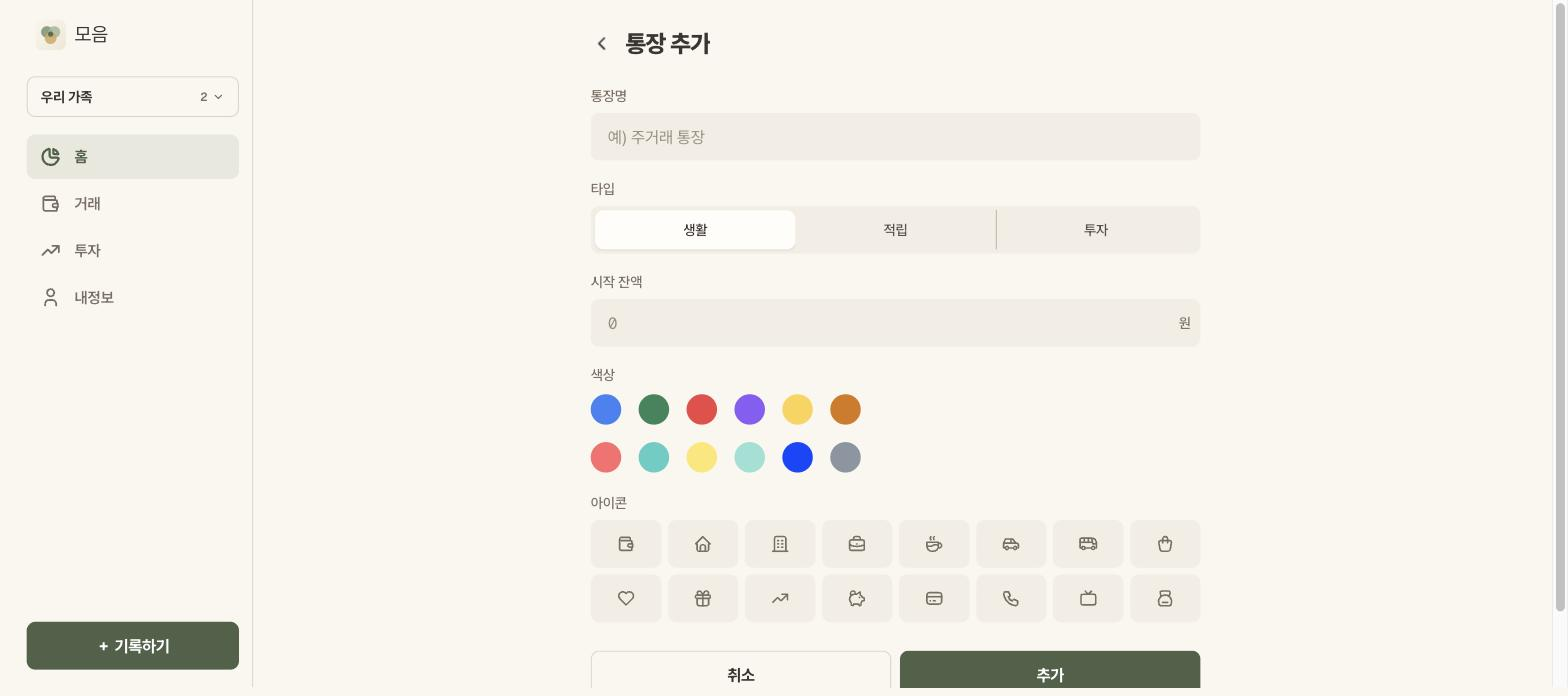
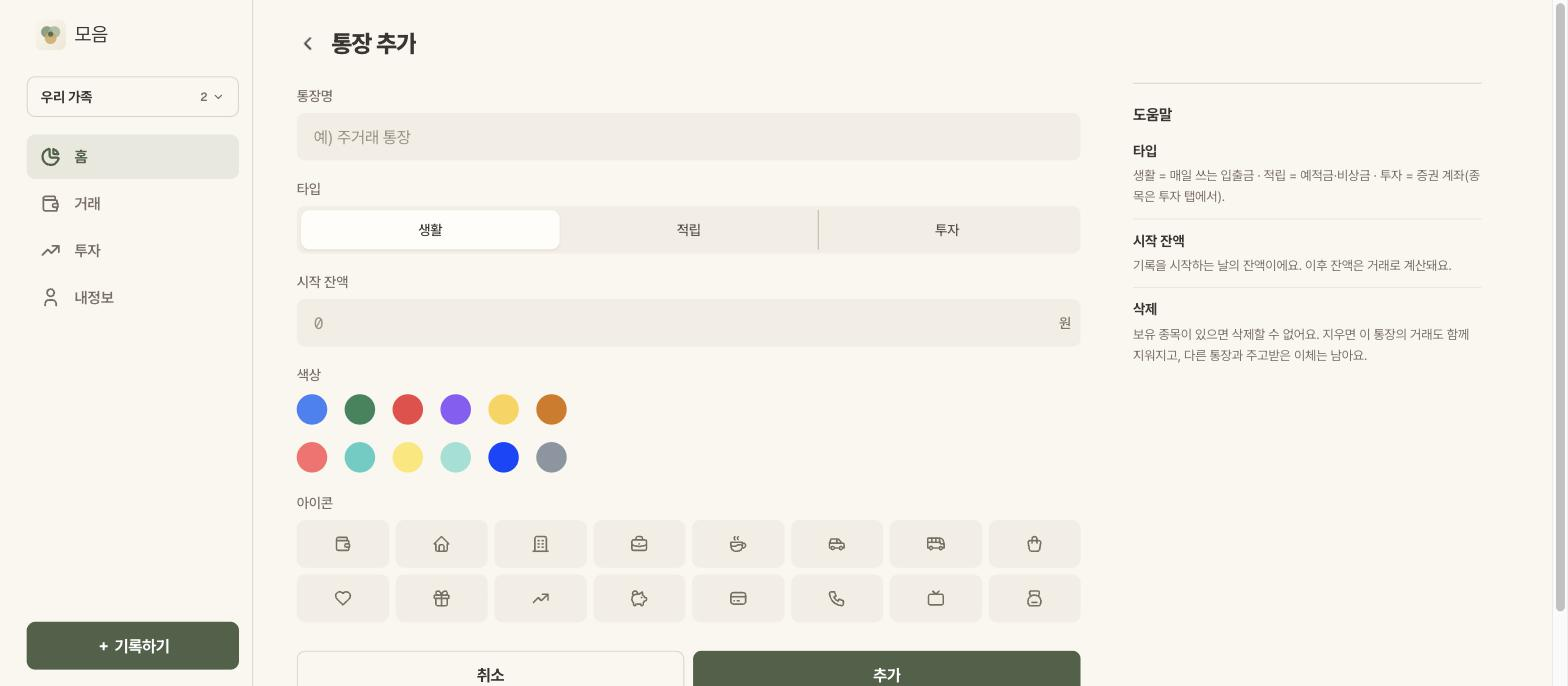
feat: 폼 페이지를 좌 폼·우 도움말 레일 격자로
목록·상세가 전부 좌 720 · 레일 320 인데 폼 페이지만 가운데 560 이라 격자가
깨졌다(사용자 피드백, 배치3 가운데 정렬 대체). 6개 폼 섹션을 moeum-main-rail 로
바꾸고 데스크톱 레일에 FormGuide(용어 뜻 · 계산 방식 · 삭제 조건)를 둔다.
통장·카테고리 문구부터 넣고, 나머지 폼은 해당 배치에서 문구를 채울 때까지 레일을 비운다.
삭제 안내는 백엔드 삭제 가드(delete_account · delete_category) 기준.

diff --git a/src/_sections/category/category-form-section.tsx b/src/_sections/category/category-form-section.tsx
@@ -1,9 +1,10 @@
 "use client";
 
-import { Stack } from "@mantine/core";
+import { Box, Stack } from "@mantine/core";
 import { useTranslations } from "next-intl";
 
 import CategoryForm from "_features/category/components/form";
+import FormGuide from "_features/common/components/form-guide";
 import SubHeader from "_features/layout/components/sub-header";
 
 interface CategoryFormSectionProps {
@@ -17,12 +18,23 @@ export default function CategoryFormSection({
   const isUpdate = Boolean(categoryId);
 
   return (
-    // 페이지 모드(fallback 라우트) — Card 없이 모달과 같은 폭 560, 본문 가운데 (DESIGN §5 폼 필드)
-    <Stack gap="md" maw={560} w="100%" mx="auto">
-      <SubHeader
-        title={isUpdate ? t("form_update_title") : t("form_create_title")}
-      />
-      <CategoryForm categoryId={categoryId} />
-    </Stack>
+    // 페이지 모드(fallback 라우트) — 앱 격자 그대로: 좌 폼 칼럼 · 우 레일 도움말 (배치4, DESIGN §5 폼 필드)
+    <div className="moeum-main-rail">
+      <Stack gap="md">
+        <SubHeader
+          title={isUpdate ? t("form_update_title") : t("form_create_title")}
+        />
+        <CategoryForm categoryId={categoryId} />
+      </Stack>
+      <Box visibleFrom="lg" pt={48}>
+        <FormGuide
+          items={[
+            { title: t("kind"), body: t("guide.kind_body") },
+            { title: t("sort_order"), body: t("guide.sort_body") },
+            { title: t("guide.delete_title"), body: t("guide.delete_body") },
+          ]}
+        />
+      </Box>
+    </div>
   );
 }

diff --git a/src/_sections/account/account-form-section.tsx b/src/_sections/account/account-form-section.tsx
@@ -1,9 +1,10 @@
 "use client";
 
-import { Stack } from "@mantine/core";
+import { Box, Stack } from "@mantine/core";
 import { useTranslations } from "next-intl";
 
 import AccountForm from "_features/account/components/form";
+import FormGuide from "_features/common/components/form-guide";
 import SubHeader from "_features/layout/components/sub-header";
 
 interface AccountFormSectionProps {
@@ -17,12 +18,23 @@ export default function AccountFormSection({
   const isUpdate = Boolean(accountId);
 
   return (
-    // 페이지 모드(fallback 라우트) — Card 없이 모달과 같은 폭 560, 본문 가운데 (DESIGN §5 폼 필드)
-    <Stack gap="md" maw={560} w="100%" mx="auto">
-      <SubHeader
-        title={isUpdate ? t("form_update_title") : t("form_create_title")}
-      />
-      <AccountForm accountId={accountId} />
-    </Stack>
+    // 페이지 모드(fallback 라우트) — 앱 격자 그대로: 좌 폼 칼럼 · 우 레일 도움말 (배치4, DESIGN §5 폼 필드)
+    <div className="moeum-main-rail">
+      <Stack gap="md">
+        <SubHeader
+          title={isUpdate ? t("form_update_title") : t("form_create_title")}
+        />
+        <AccountForm accountId={accountId} />
+      </Stack>
+      <Box visibleFrom="lg" pt={48}>
+        <FormGuide
+          items={[
+            { title: t("type"), body: t("guide.type_body") },
+            { title: t("balance"), body: t("guide.start_balance_body") },
+            { title: t("guide.delete_title"), body: t("guide.delete_body") },
+          ]}
+        />
+      </Box>
+    </div>
   );
 }

diff --git a/src/_features/common/components/form-guide.tsx b/src/_features/common/components/form-guide.tsx
@@ -1,0 +1,42 @@
+"use client";
+
+import { Box, Text } from "@mantine/core";
+import { useTranslations } from "next-intl";
+
+import Section from "./section";
+
+export interface FormGuideItem {
+  title: string;
+  body: string;
+}
+
+interface FormGuideProps {
+  items: FormGuideItem[];
+}
+
+/**
+ * FormGuide — 폼 페이지 모드(fallback 라우트) 데스크톱 우측 레일 "도움말" (배치4, DESIGN §5 폼 필드).
+ * 항목 = 제목 13/700 + 설명 12 dim, hair-2 로 구분. 시트·모달엔 넣지 않는다(좁은 화면은 폼만).
+ */
+export default function FormGuide({ items }: FormGuideProps) {
+  const tg = useTranslations("general.common");
+
+  return (
+    <Section title={tg("guide")}>
+      {items.map((it, i) => (
+        <Box
+          key={it.title}
+          py={10}
+          style={{ borderBottom: i < items.length - 1 ? "1px solid var(--moeum-hair-2)" : undefined }}
+        >
+          <Text fw={700} c="var(--moeum-text)" style={{ fontSize: 13, lineHeight: "19px" }}>
+            {it.title}
+          </Text>
+          <Text c="dimmed" mt={4} style={{ fontSize: 12, lineHeight: 1.6 }}>
+            {it.body}
+          </Text>
+        </Box>
+      ))}
+    </Section>
+  );
+}

diff --git a/src/_sections/transactions/transactions-form-section.tsx b/src/_sections/transactions/transactions-form-section.tsx
@@ -17,12 +17,14 @@ export default function TransactionsFormSection({
   const isUpdate = Boolean(transactionId);
 
   return (
-    // 페이지 모드(fallback 라우트) — Card 없이 모달과 같은 폭 560, 본문 가운데 (DESIGN §5 폼 필드)
-    <Stack gap="md" maw={560} w="100%" mx="auto">
-      <SubHeader
-        title={isUpdate ? t("form_update_title") : t("form_create_title")}
-      />
-      <TransactionForm transactionId={transactionId} />
-    </Stack>
+    // 페이지 모드(fallback 라우트) — 앱 격자 그대로 좌 폼 칼럼. 우 레일 도움말은 이 폼 배치에서 문구와 함께 (배치4, DESIGN §5 폼 필드)
+    <div className="moeum-main-rail">
+      <Stack gap="md">
+        <SubHeader
+          title={isUpdate ? t("form_update_title") : t("form_create_title")}
+        />
+        <TransactionForm transactionId={transactionId} />
+      </Stack>
+    </div>
   );
 }

diff --git a/src/_sections/fixed/fixed-form-section.tsx b/src/_sections/fixed/fixed-form-section.tsx
@@ -15,12 +15,14 @@ export default function FixedFormSection({ fixedId }: FixedFormSectionProps) {
   const isUpdate = Boolean(fixedId);
 
   return (
-    // 페이지 모드(fallback 라우트) — Card 없이 모달과 같은 폭 560, 본문 가운데 (DESIGN §5 폼 필드)
-    <Stack gap="md" maw={560} w="100%" mx="auto">
-      <SubHeader
-        title={isUpdate ? t("form_update_title") : t("form_create_title")}
-      />
-      <FixedForm fixedId={fixedId} />
-    </Stack>
+    // 페이지 모드(fallback 라우트) — 앱 격자 그대로 좌 폼 칼럼. 우 레일 도움말은 이 폼 배치에서 문구와 함께 (배치4, DESIGN §5 폼 필드)
+    <div className="moeum-main-rail">
+      <Stack gap="md">
+        <SubHeader
+          title={isUpdate ? t("form_update_title") : t("form_create_title")}
+        />
+        <FixedForm fixedId={fixedId} />
+      </Stack>
+    </div>
   );
 }

diff --git a/src/_sections/household/household-form-section.tsx b/src/_sections/household/household-form-section.tsx
@@ -17,12 +17,14 @@ export default function HouseholdFormSection({
   const isUpdate = Boolean(householdId);
 
   return (
-    // 페이지 모드(fallback 라우트) — Card 없이 모달과 같은 폭 560, 본문 가운데 (DESIGN §5 폼 필드)
-    <Stack gap="md" maw={560} w="100%" mx="auto">
-      <SubHeader
-        title={isUpdate ? t("form_update_title") : t("form_create_title")}
-      />
-      <HouseholdForm householdId={householdId} />
-    </Stack>
+    // 페이지 모드(fallback 라우트) — 앱 격자 그대로 좌 폼 칼럼. 우 레일 도움말은 이 폼 배치에서 문구와 함께 (배치4, DESIGN §5 폼 필드)
+    <div className="moeum-main-rail">
+      <Stack gap="md">
+        <SubHeader
+          title={isUpdate ? t("form_update_title") : t("form_create_title")}
+        />
+        <HouseholdForm householdId={householdId} />
+      </Stack>
+    </div>
   );
 }

diff --git a/src/_sections/invest/portfolio-form-section.tsx b/src/_sections/invest/portfolio-form-section.tsx
@@ -17,12 +17,14 @@ export default function PortfolioFormSection({
   const isUpdate = Boolean(portfolioId);
 
   return (
-    // 페이지 모드(fallback 라우트) — Card 없이 모달과 같은 폭 560, 본문 가운데 (DESIGN §5 폼 필드)
-    <Stack gap="md" maw={560} w="100%" mx="auto">
-      <SubHeader
-        title={isUpdate ? t("form_update_title") : t("form_create_title")}
-      />
-      <PortfolioForm portfolioId={portfolioId} />
-    </Stack>
+    // 페이지 모드(fallback 라우트) — 앱 격자 그대로 좌 폼 칼럼. 우 레일 도움말은 이 폼 배치에서 문구와 함께 (배치4, DESIGN §5 폼 필드)
+    <div className="moeum-main-rail">
+      <Stack gap="md">
+        <SubHeader
+          title={isUpdate ? t("form_update_title") : t("form_create_title")}
+        />
+        <PortfolioForm portfolioId={portfolioId} />
+      </Stack>
+    </div>
   );
 }

diff --git a/src/_features/portfolio/components/form.tsx b/src/_features/portfolio/components/form.tsx
@@ -22,7 +22,7 @@ interface PortfolioFormProps {
   portfolioId?: string;
   /** 시트에서 사용 시 — 성공·취소 후 호출(시트 close) */
   onDone?: () => void;
-  /** 시트(FormSheet) 안에서 쓸 때 — 푸터 sticky. 페이지 모드 폭(560)은 폼 섹션이 잡는다 */
+  /** 시트(FormSheet) 안에서 쓸 때 — 푸터 sticky. 페이지 모드 폭은 폼 섹션(앱 격자 좌 칼럼)이 잡는다 */
   inSheet?: boolean;
   /** 계좌 상세에서 추가 시 — 그 계좌로 프리필(create 전용) */
   defaultAccountId?: string;

diff --git a/src/_features/account/components/form.tsx b/src/_features/account/components/form.tsx
@@ -16,7 +16,7 @@ interface AccountFormProps {
   accountId?: string; // 있으면 update, 없으면 create
   /** 시트에서 사용 시 — 성공·취소 후 호출(시트 close) */
   onDone?: () => void;
-  /** 시트(FormSheet) 안에서 쓸 때 — 푸터 sticky. 페이지 모드 폭(560)은 폼 섹션이 잡는다 */
+  /** 시트(FormSheet) 안에서 쓸 때 — 푸터 sticky. 페이지 모드 폭은 폼 섹션(앱 격자 좌 칼럼)이 잡는다 */
   inSheet?: boolean;
 }
 

diff --git a/src/_features/transaction/components/form.tsx b/src/_features/transaction/components/form.tsx
@@ -32,7 +32,7 @@ interface TransactionFormProps {
   copyFromId?: string;
   /** 성공/취소 후 호출. 시트 모드용. 없으면 라우트 이동 (기존 동작). */
   onDone?: () => void;
-  /** 시트(FormSheet) 안에서 쓸 때 — 푸터 sticky. 페이지 모드 폭(560)은 폼 섹션이 잡는다 */
+  /** 시트(FormSheet) 안에서 쓸 때 — 푸터 sticky. 페이지 모드 폭은 폼 섹션(앱 격자 좌 칼럼)이 잡는다 */
   inSheet?: boolean;
 }
 

diff --git a/src/_features/household/components/form.tsx b/src/_features/household/components/form.tsx
@@ -12,7 +12,7 @@ interface HouseholdFormProps {
   householdId?: string;
   /** 시트에서 사용 시 — 성공·취소 후 호출(시트 close) */
   onDone?: () => void;
-  /** 시트(FormSheet) 안에서 쓸 때 — 푸터 sticky. 페이지 모드 폭(560)은 폼 섹션이 잡는다 */
+  /** 시트(FormSheet) 안에서 쓸 때 — 푸터 sticky. 페이지 모드 폭은 폼 섹션(앱 격자 좌 칼럼)이 잡는다 */
   inSheet?: boolean;
 }
 
